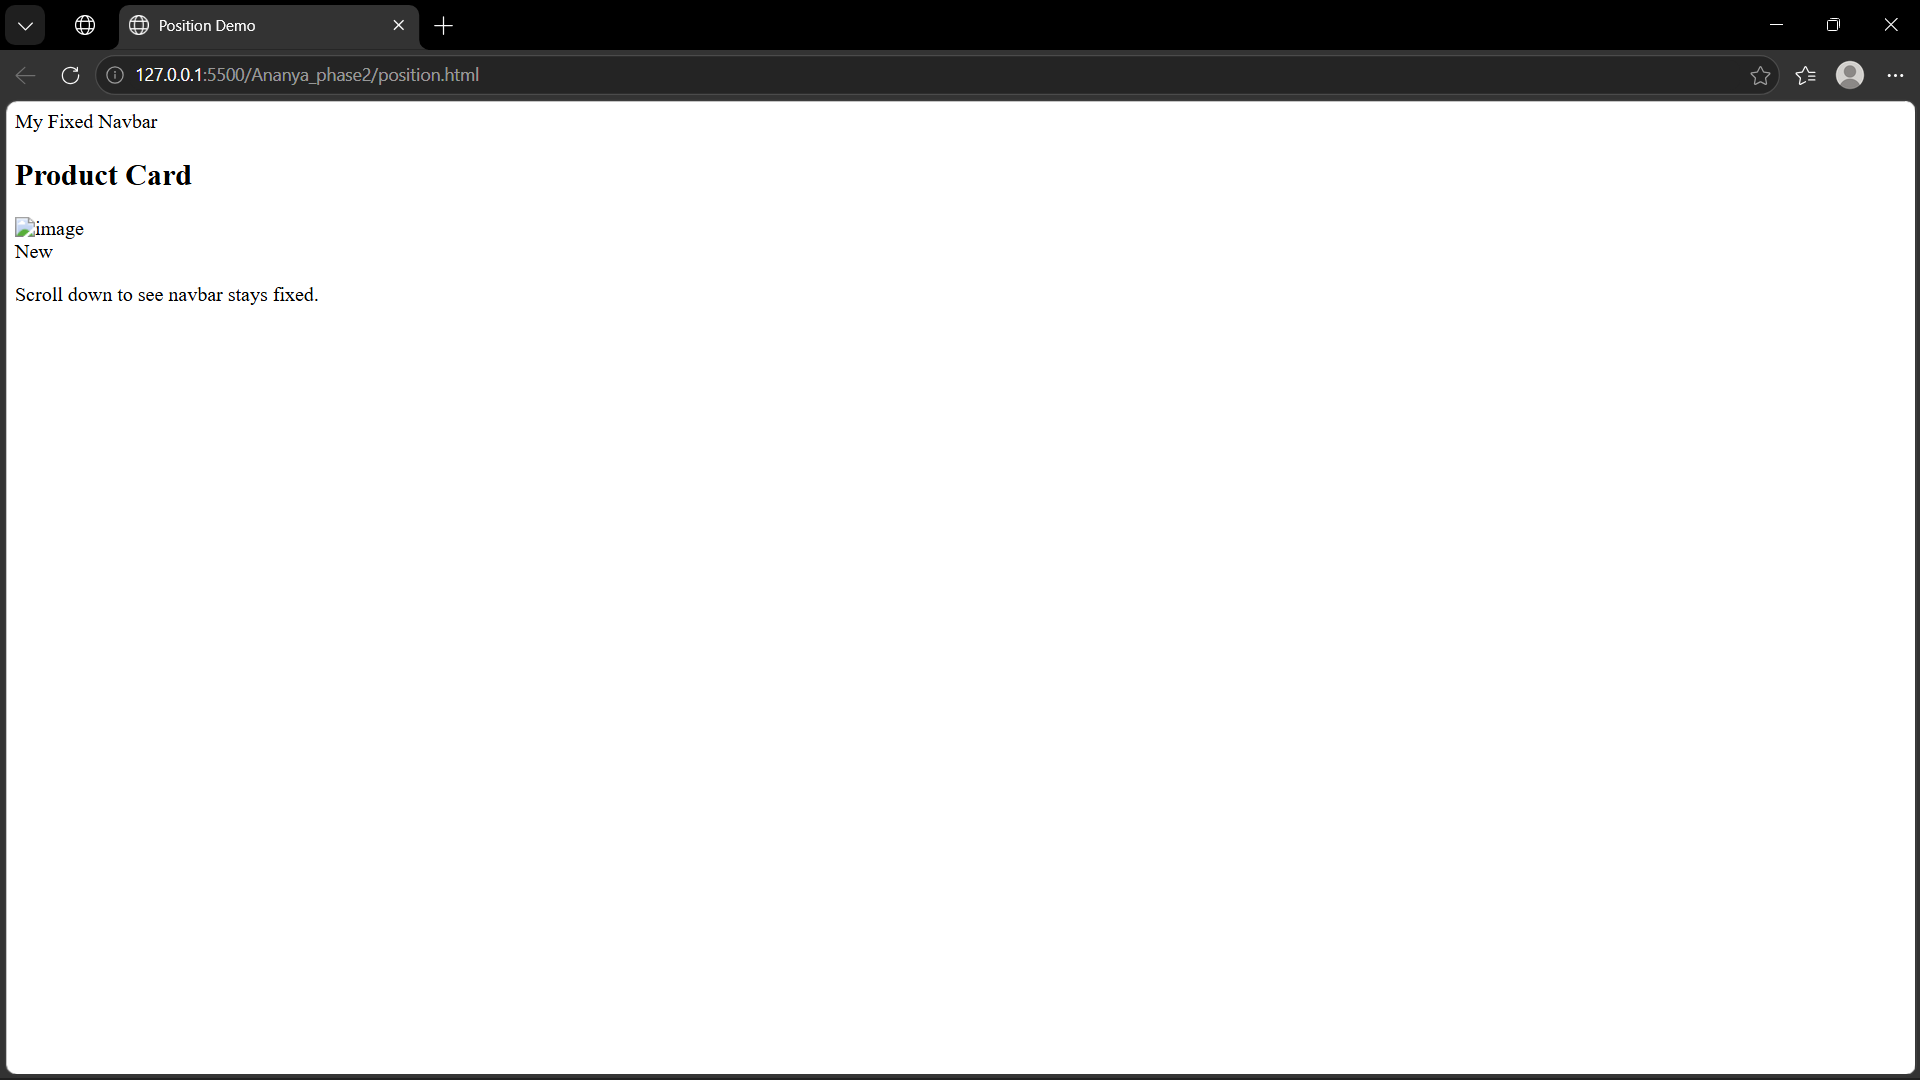
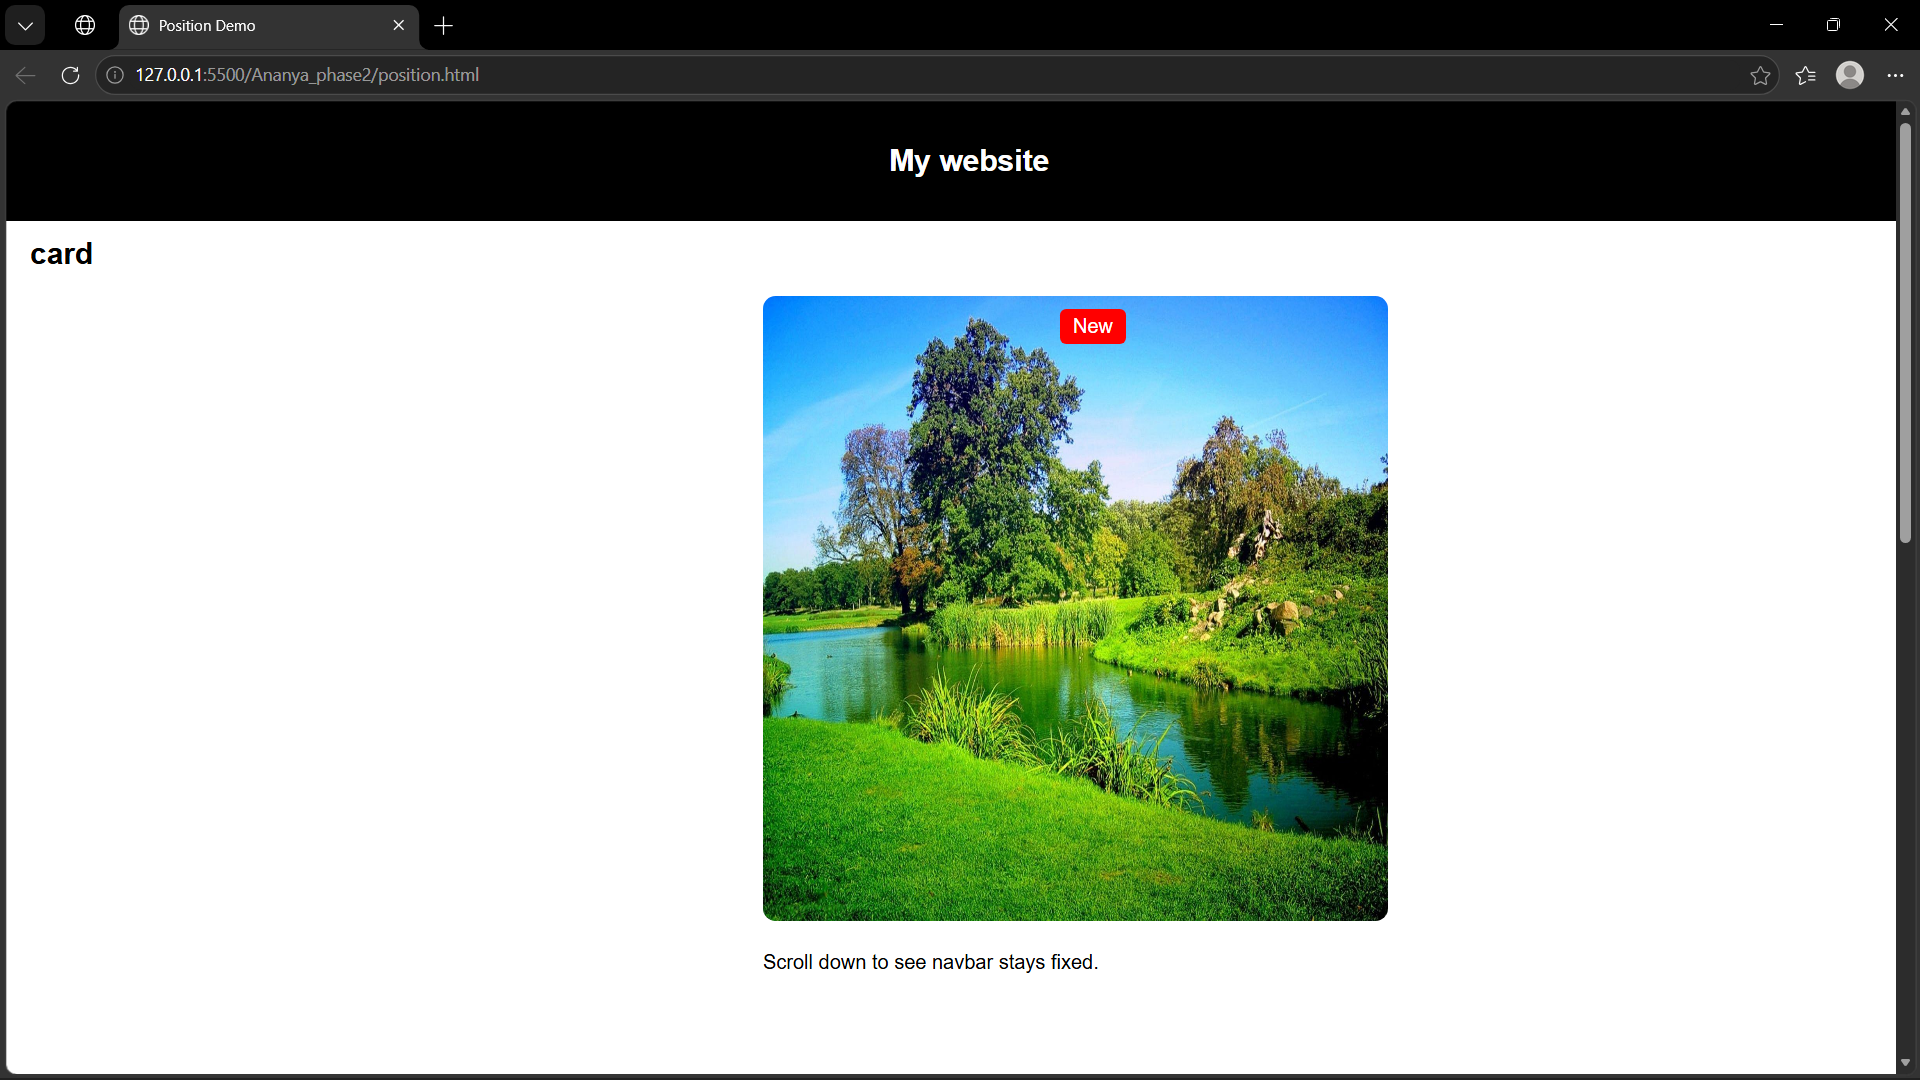
css files created

diff --git a/Ananya_phase2/position.html b/Ananya_phase2/position.html
@@ -4,21 +4,21 @@
   <title>Position Demo</title>
 
 
-  <link rel="stylesheet" href="style.css">
+  <link rel="stylesheet" href="position.css">
 </head>
 
 <body>
 
 
   <div class="navbar">
-    My Fixed Navbar
+    <h2>My website</h2>
   </div>
 
   <div class="content">
-    <h2>Product Card</h2>
+    <h2>card</h2>
 
     <div class="card">
-      <img src="https://via.placeholder.com/300" alt="image">
+      <img src="https://external-content.duckduckgo.com/iu/?u=https%3A%2F%2Fwallpapercave.com%2Fwp%2Fwp2858551.jpg&f=1&nofb=1&ipt=b38c96f3cf22754958eadbac64f19ba8dc37dbda36807f7249d71228dd79ae40" alt="image">
       <div class="badge">New</div>
     </div>
 

diff --git a/Ananya_phase2/position.css b/Ananya_phase2/position.css
@@ -5,7 +5,7 @@ body {
 
 
 .navbar {
-  position: fixed;
+  position:fixed;
   top: 0;
   width: 100%;
   background: black;
@@ -27,7 +27,8 @@ body {
 }
 
 .card img {
-  width: 100%;
+  width:500px;
+  height:500px;
   border-radius: 10px;
 }
 
@@ -45,4 +46,6 @@ body {
 
 .scroll-text {
   height: 1000px;
+  width: 300px;
+  margin: 20px auto;
 }